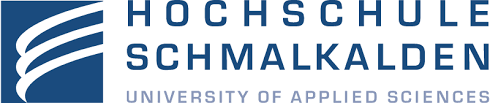
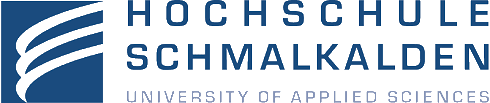
wip dark mode

diff --git a/docs/assets/css/navbar.css b/docs/assets/css/navbar.css
@@ -1,22 +1,29 @@
 /* logo */
 .site-logo img {
-    /* background: linear-gradient(45deg, #ee7752, #e73c7e, rgba(43, 43, 255, 1) 0%, rgba(37, 111, 111, 1) 100%);
-    background-size: 100% 100%;
-    animation: gradient 1s ease infinite; */
-    background: linear-gradient(-45deg, #000, #000, #000, #2b2bff, #256f6f, #914731, #000, #000);
-    background-size: 800% 800%;
-    animation: gradient 25s ease infinite;
-    animation-delay: 3s;
+  background: linear-gradient(-45deg, #000, #000, #000, #2b2bff, #256f6f, #914731, #000, #000);
+  background-size: 800% 800%;
+  animation: gradient 25s ease infinite;
+  animation-delay: 3s;
+}
+
+@media (prefers-color-scheme: dark) {
+  .feature__item:not(:last-child) img {
+    filter: invert(100%) sepia(0%) saturate(7491%) hue-rotate(130deg) brightness(70%) contrast(92%);
   }
 
-  @keyframes gradient {
-    10% {
-      background-position: 0% 0%;
-    }
-    50% {
-      background-position: 100% 50%;
-    }
-    90% {
-      background-position: 0% 0%;
-    }
+  .site-logo img {
+    background: linear-gradient(-45deg, #fff, #fff, #fff, #2b2bff, #256f6f, #914731, #fff, #fff);
   }
+}
+
+@keyframes gradient {
+  10% {
+    background-position: 0% 0%;
+  }
+  50% {
+    background-position: 100% 50%;
+  }
+  90% {
+    background-position: 0% 0%;
+  }
+}

diff --git a/docs/_pages/cv.md b/docs/_pages/cv.md
@@ -27,7 +27,7 @@ layout: default
             <div class="timeline-badge">Oct 2019</div>
             <div class="timeline-panel">
               <div class="" style="padding: 5px; background-color: #ffffff">
-                <img class="timeline-img-banner" src="../assets/logo.svg" alt="" />
+                <img class="timeline-img-banner" src="../assets/logo.png" alt="" />
               </div>
               <div class="badge-container">
                 <span class="badge bg-secondary">Current Job</span>
@@ -444,7 +444,7 @@ layout: default
             <div class="timeline-badge">Aug 2014</div>
             <div class="timeline-panel">
               <div class="" style="padding: 5px; background-color: #ffffff">
-                <img class="timeline-img-banner" src="../assets/cv/2014_fraunhofer_iosb.jpg" alt="" />
+                <img class="timeline-img-banner" src="../assets/cv/2014_fraunhofer_iosb.png" alt="" />
               </div>
               <div class="timeline-heading">
                 <h3 class="timeline-title">Internship</h3>

diff --git a/docs/_pages/home.md b/docs/_pages/home.md
@@ -44,6 +44,15 @@ feature_row:
 <header>
   <link rel="stylesheet" href="../assets/css/landing.css" />
   <link rel="stylesheet" href="../assets/css/navbar.css" />
+  <script>
+    window.addEventListener('load', (event) => {
+      console.log('page is fully loaded');
+      var element = document.querySelector('.site-logo');
+      element.classList.add("darkreader");
+      element = document.querySelector('.site-logo img');
+      element.classList.add("darkreader");
+    });
+  </script>
 </header>
 {% include feature_row %}
 
